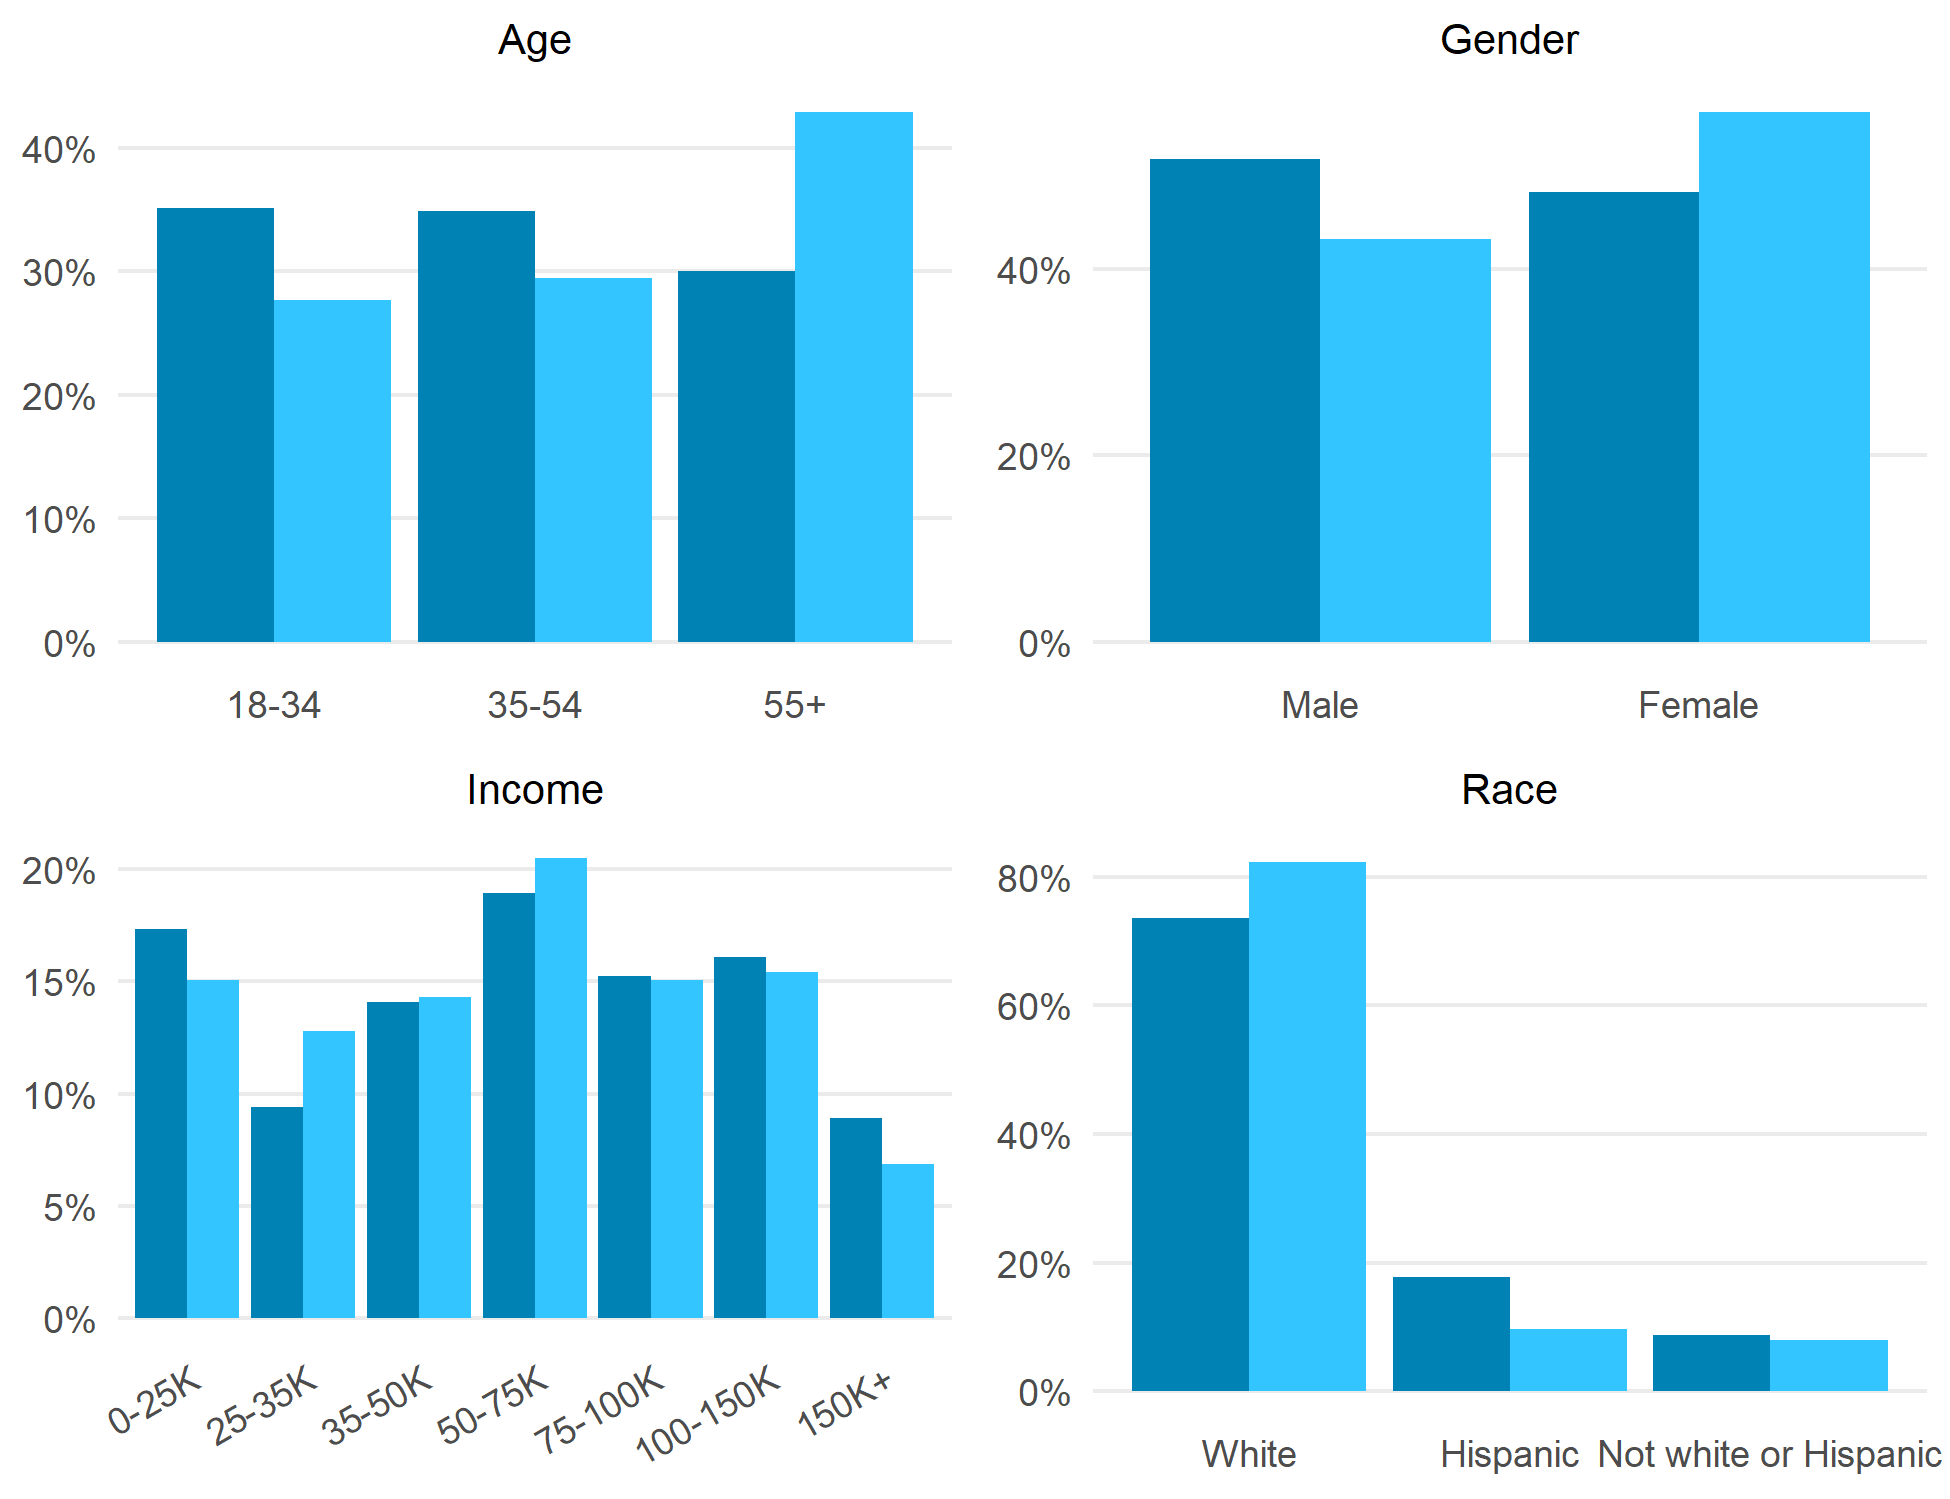
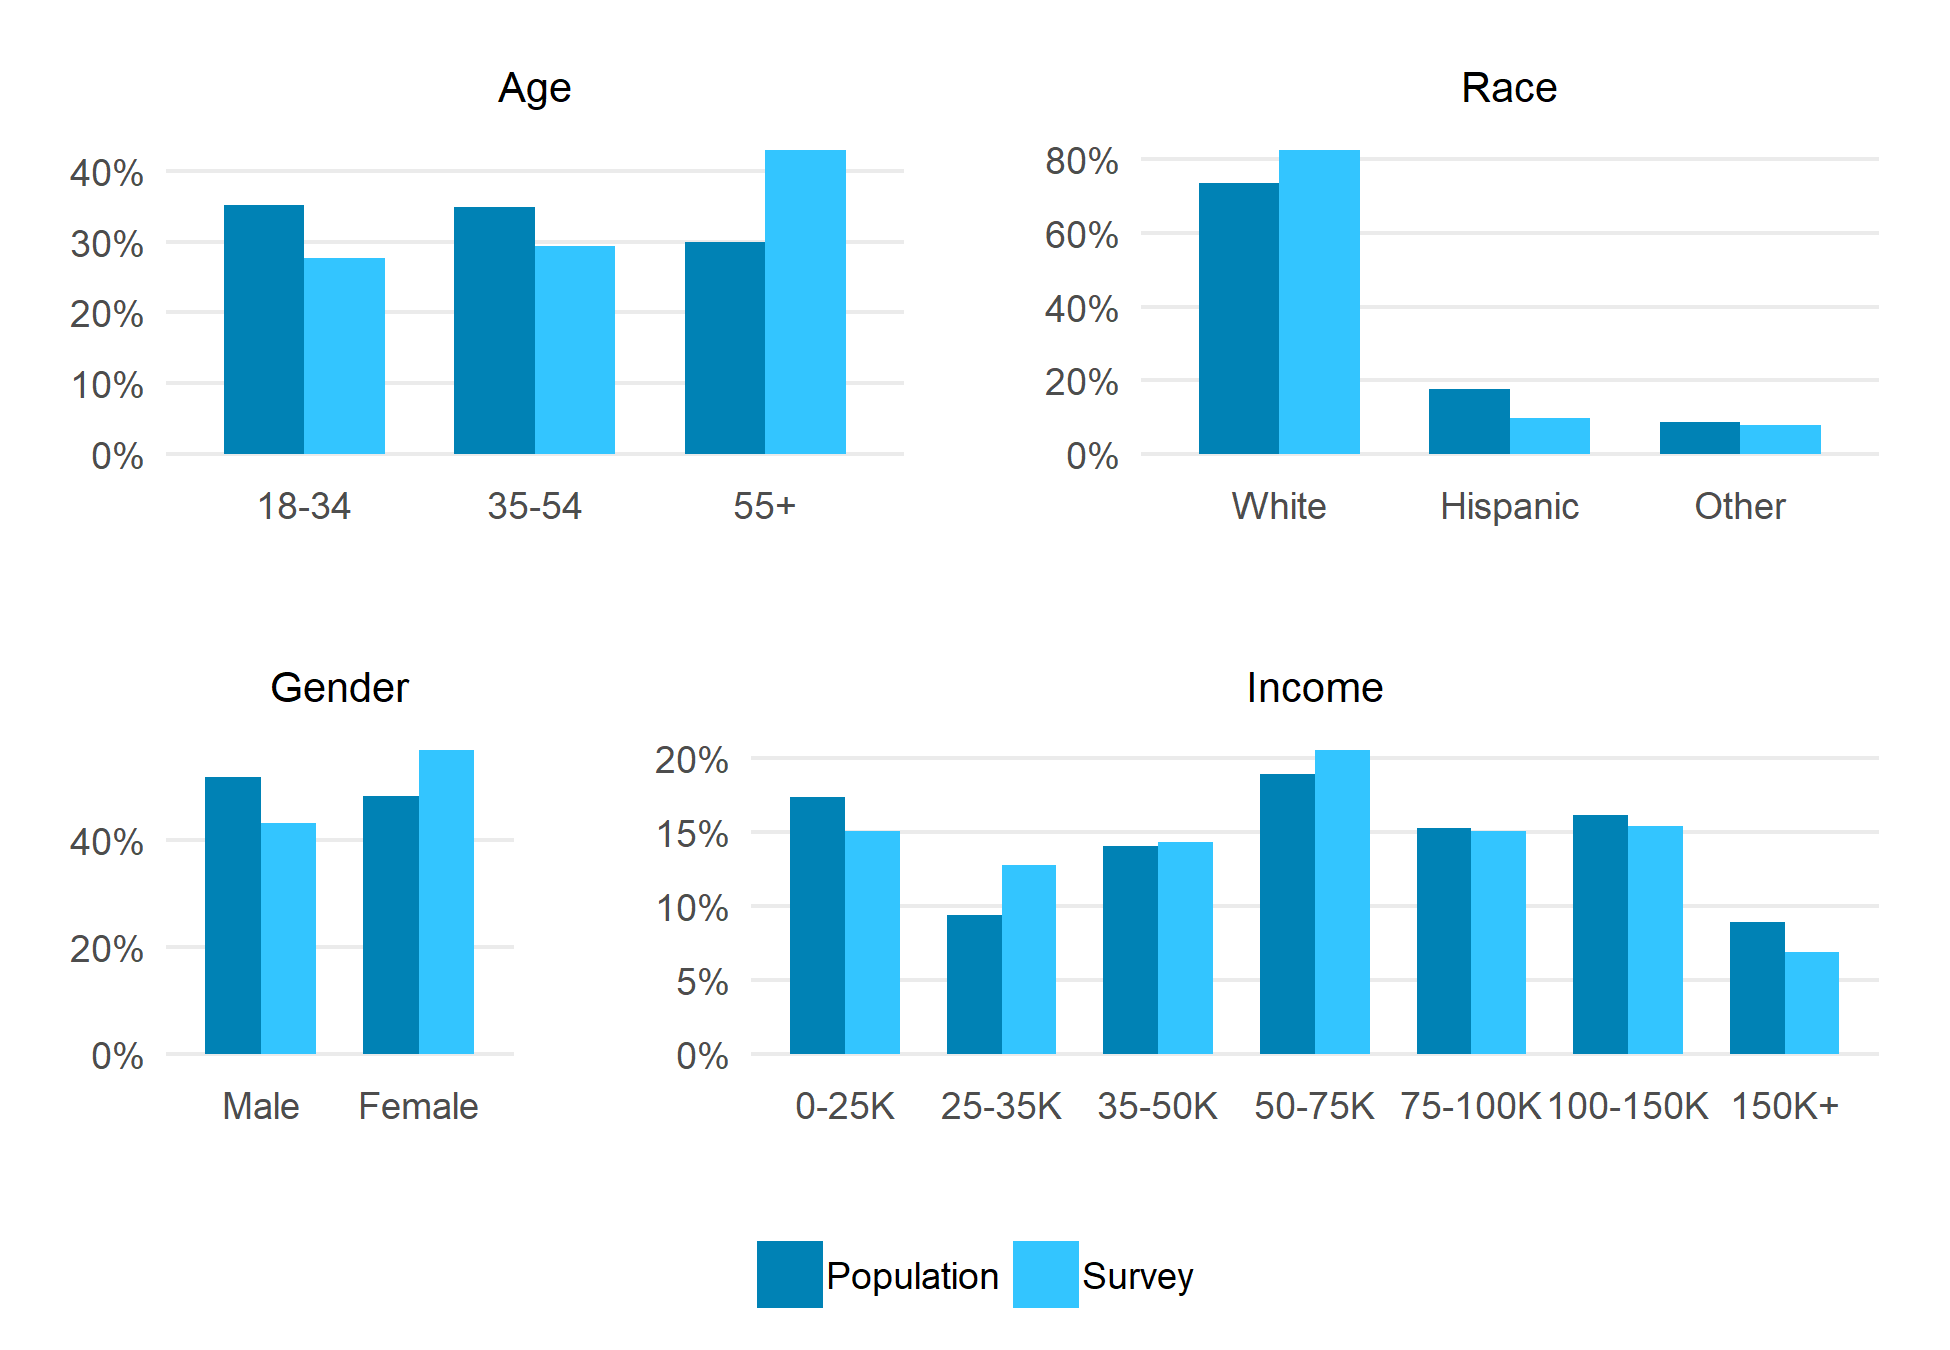
weight summary

diff --git a/code/1-svy/weight-summary.md b/code/1-svy/weight-summary.md
@@ -1,17 +1,25 @@
 Summarize CO survey weighting
 ================
-February 03, 2020
+February 05, 2020
 
 ``` r
 library(tidyverse)
 source("../../R/results.R")
+svy_data <- readRDS("../../data-work/1-svy/svy-final.rds")$person
+pop_data <- readRDS("../../data-work/oia/oia-co.rds") %>% filter(in_co_pop)
+
+# use "Other" for third race category
+recode_race <- function(df) {
+    mutate(df, race_weight = recode_factor(race_weight, `Not white or Hispanic` = "Other") %>%
+               factor(levels = c("White", "Hispanic", "Other")))
+}
+svy_data <- recode_race(svy_data)
+pop_data <- recode_race(pop_data)
 ```
 
 ## Weight Summary
 
 ``` r
-svy_data <- readRDS("../../data-work/1-svy/svy-final.rds")$person
-pop_data <- readRDS("../../data-work/oia/oia-co.rds") %>% filter(in_co_pop)
 summary(svy_data$weight)
 ```
 
@@ -35,28 +43,25 @@ dataset:
 ``` r
 figs <- list(
     compare_demo(age_weight, svy_data, pop_data) %>% plot_demo(age_weight, "Age"),
+    compare_demo(race_weight, svy_data, pop_data) %>% plot_demo(race_weight, "Race"),
     compare_demo(sex, svy_data, pop_data) %>% plot_demo(sex, "Gender"),
-    compare_demo(income_weight, svy_data, pop_data) %>% plot_demo(income_weight, "Income", angle_x_labs = 30),
-    compare_demo(race_weight, svy_data, pop_data) %>% plot_demo(race_weight, "Race")
+    compare_demo(income_weight, svy_data, pop_data) %>% plot_demo(income_weight, "Income")
 )
-gridExtra::grid.arrange(grobs = figs, ncol = 2) %>%
-    ggsave("../../out/fig/demorep.png", ., width = 6.5, units = "in")
-```
+f1 <- cowplot::plot_grid(figs[[1]], figs[[2]], rel_widths = c(0.5, 0.5), ncol = 2)
+f2 <- cowplot::plot_grid(figs[[3]], figs[[4]], rel_widths = c(0.3, 0.7), ncol = 2)
 
-    Saving 6.5 x 5 in image
-
-![](weight-summary_files/figure-gfm/unnamed-chunk-3-1.png)<!-- -->
-
-``` r
 # legend
-compare_demo(sex, svy_data, pop_data) %>% 
+f3 <- compare_demo(sex, svy_data, pop_data) %>% 
     plot_demo(sex, "", hide_legend = FALSE) %>%
     get_legend() %>%
-    gridExtra:::grid.arrange() %>%
-    ggsave("../../out/fig/demorep-legend.png", ., height = 0.5, width = 6.5, units = "in")
+    cowplot::plot_grid()
+
+figs_out <- cowplot::plot_grid(f1, f2, f3, nrow = 3, rel_heights = c(0.4, 0.4, 0.1))
+ggsave("../../out/fig/demorep.png", figs_out, width = 6.5, height = 4.5, units = "in")
+figs_out
 ```
 
-![](weight-summary_files/figure-gfm/unnamed-chunk-3-2.png)<!-- -->
+![](weight-summary_files/figure-gfm/unnamed-chunk-3-1.png)<!-- -->
 
 ### Survey
 
@@ -80,8 +85,8 @@ sapply(wt_vars, function(x) weights::wpct(svy_data[[x]]))
     0.06858594 
     
     $race_weight
-                    White              Hispanic Not white or Hispanic 
-               0.82387807            0.09652837            0.07959356 
+         White   Hispanic      Other 
+    0.82387807 0.09652837 0.07959356 
 
 ### Target Pop
 
@@ -104,5 +109,5 @@ sapply(wt_vars, function(x) weights::wpct(pop_data[[x]], pop_data$stwt))
     0.08898309 
     
     $race_weight
-                    White              Hispanic Not white or Hispanic 
-               0.73559778            0.17719770            0.08720452
+         White   Hispanic      Other 
+    0.73559778 0.17719770 0.08720452
